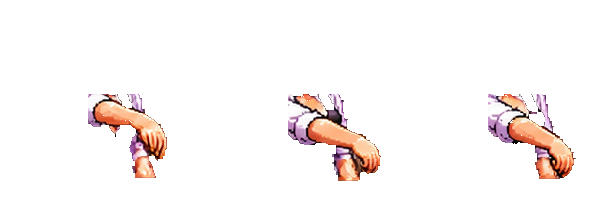
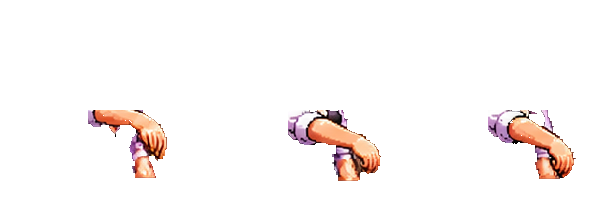
Roulette: Madame Monique at 1.7x so her shoulders clear the table; reach still meets the rim
Claude-Session: https://claude.ai/code/session_01PkDBiKEFqjsGM3EyfJMuNG

Changed region(s): [[0.81, 0.4286, 0.93, 0.5429], [0.15, 0.4286, 0.24, 0.5429], [0.48, 0.4286, 0.57, 0.5429]]

diff --git a/src/ui/casino/rouletteLayout.ts b/src/ui/casino/rouletteLayout.ts
@@ -67,9 +67,9 @@ export const WHEEL_AT = { x: 1452, y: 332, rx: 160, ry: 128 };
 /**
  * Madame Monique behind the table, slightly left of the wheel's centre, so her
  * right-reaching spin arm ends on the wheel's far rim. Table-image pixels; her
- * 200 x 210 sprite cell is drawn at 1.25x, which matches Velvet Vega's and
- * Stick Lady's on-screen size. Placed so the hand in her fullest reach
+ * 200 x 210 sprite cell is drawn at 1.7x: head, shoulders and bow tie clear
+ * the table like the other dealers (1.25x sank her behind the wheel). Placed so the hand in her fullest reach
  * (frame 9, cell x 181, y ~158) lands on the far rim at (1510, 146).
  */
-export const MONIQUE_SCALE = 1.25;
-export const MONIQUE_AT = { left: 1284, top: -52, w: 250, h: 262 };
+export const MONIQUE_SCALE = 1.7;
+export const MONIQUE_AT = { left: 1202, top: -123, w: 340, h: 357 };

diff --git a/docs/ART_INVENTORY.md b/docs/ART_INVENTORY.md
@@ -20,7 +20,7 @@ Updated 2026-11-22 (v0.13.2). Every sheet below is kept unchanged under `art/sou
 | Craps table without painted dice | Nov 22 (sent twice) | `casino/Retro_Pixel-Art_Craps_Table.png` | The craps table. Its purple background is keyed out. The ON puck positions were measured from its 4–10 boxes. Replaces the table with painted dice (archived in `art/retired/`). |
 | Course scenery alpha pack (16 sprites) | Nov 22 (zip) | `course_alpha/*` | **12 in use** on Dry Creek hole 2 only (test hole), as a decorative layer: pine, oak, palm, cypress, pink shrub, flower bed, reeds, rocks, course sign, bench, golf cart, plus cactus held for desert courses. Each had a 1-px light-grey checkerboard fringe removed (`tools/clean_course_sprites.py`, report in `course_alpha/cleanup_report.json`). **Not used:** bunker and lily pond (hazards come from the course data), bridge (no water crossing yet), flagstick (the existing flag is the only flag). |
 | Roulette table, wheel on the right (16-bit luxury table) | Nov 22 | `casino/16-Bit_Luxury_Roulette_Table.png` | The roulette table. All 49 bet areas were measured from this art and checked against its pixels. The black background is keyed out; enclosed shadows are kept. Replaces the left-wheel table (`Pixel_Art_Roulette_Casino_Table.png`, archived in `art/retired/`). |
-| Madame Monique, croupier (idle, spin reach, emote; 4 portraits) | Nov 22 | `casino/Madame_Monique_Croupier_Sprite_Sheet.png` (+ `..._Roulette_Sprite_Sheet_REFERENCE.png`) | Roulette croupier behind the new right-wheel table, drawn at 1.25× to match the other dealers. Her spin reach (frames 5–13) now lands on the wheel's far rim: on reach frames 8–10 her forearm is drawn in front of the table from an arm-only overlay cut from her own pixels (`monique_arm.png`; nothing redrawn). The chip frames have baked-in chips and are held back. |
+| Madame Monique, croupier (idle, spin reach, emote; 4 portraits) | Nov 22 | `casino/Madame_Monique_Croupier_Sprite_Sheet.png` (+ `..._Roulette_Sprite_Sheet_REFERENCE.png`) | Roulette croupier behind the new right-wheel table, drawn at 1.7× so her head and shoulders clear the table. Her spin reach (frames 5–13) now lands on the wheel's far rim: on reach frames 8–10 her forearm is drawn in front of the table from an arm-only overlay cut from her own pixels (`monique_arm.png`; nothing redrawn). The chip frames have baked-in chips and are held back. |
 | Velvet Vega, blackjack dealer (idle, deal, win, loss, blackjack) | Nov 22 | `casino/Velvet_Vega_Blackjack_Sprite_Sheet.png` | Blackjack dealer behind the table. **Provisional:** her deal uses the one card-free frame (a lean), because the other deal frames hold a baked-in card. Her chip frames have baked-in chips. Both sets are held back; the game draws its own cards and chips. Needs: card-free deal frames and chip-free chip frames. |
 | Greyhound run cycles, 6 lane jackets × 8 frames (**provisional**) | Nov 22 (handoff zip) | `casino/greyhound_handoff/animation_concept_NOT_ATLAS.png` | Race and betting screens. Cut from the concept sheet: the panel background and baked shadows are keyed out, and the poses are in the supplied order. The lane number is drawn on each jacket in game, over the painted digit; 9 of the 48 painted digits are wrong. One coat per lane, so the dog in lane 1 always looks like the brindle. Needed for final art: clean per-frame sprites with correct numbers, ideally an unnumbered jacket layer. |
 | Stick Lady, craps dealer (idle, call, win, loss, seven-out; 8 portraits) | Nov 22 | `casino/Craps_Dealer_Sprite_Sheet.png` | Craps dealer behind the rail, named Stick Lady (22 Nov). Her 8 portraits (top row of the sheet) are in her dialogue box (`stick_portraits.png`). No dice in the frames; the game's own dice are used. Her chip frames have baked-in chips and are held back. |
